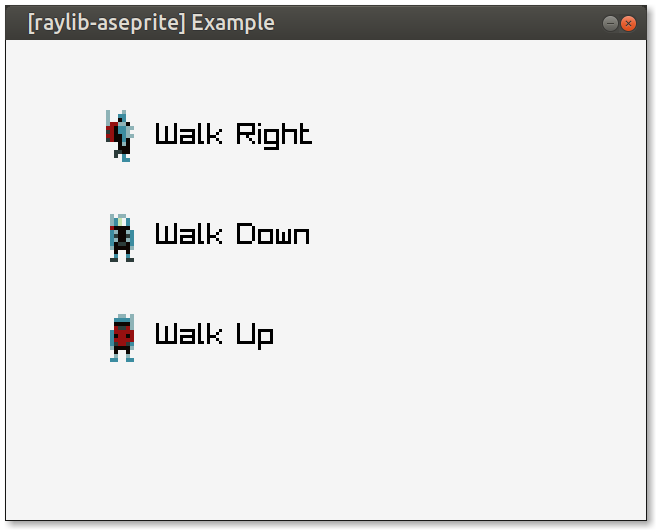
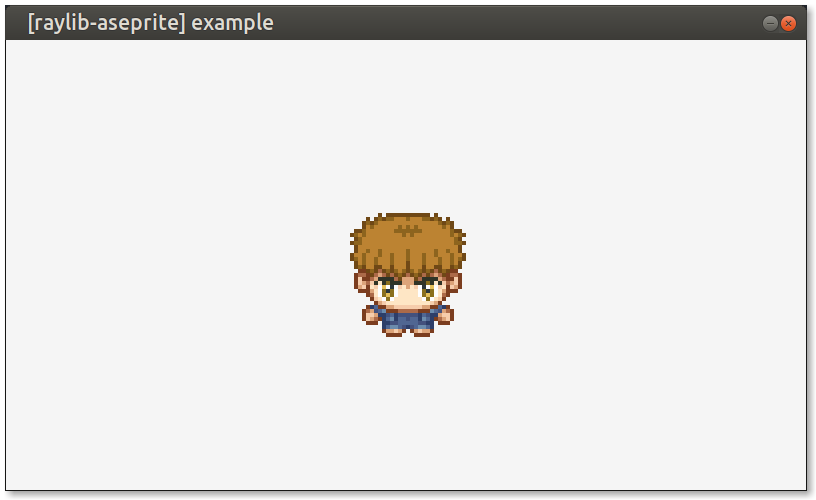
v1.0.0

Changed region(s): [[0.0, 0.0, 1.0, 0.99], [0.1524, 0.39, 0.5793, 0.69], [0.1524, 0.21, 0.4878, 0.3]]

diff --git a/include/raylib-aseprite.h b/include/raylib-aseprite.h
@@ -77,15 +77,15 @@ void TraceAseprite(Aseprite aseprite);                              // Display a
 Texture GetAsepriteTexture(Aseprite aseprite);                      // Retrieve the raylib texture associated with the aseprite
 int GetAsepriteWidth(Aseprite aseprite);                            // Get the width of the sprite
 int GetAsepriteHeight(Aseprite aseprite);                           // Get the height of the sprite
-int GetAspriteTagCount(Aseprite aseprite);                          // Get the total amount of available tags
+int GetAsepriteTagCount(Aseprite aseprite);                          // Get the total amount of available tags
 void DrawAseprite(Aseprite aseprite, int frame, int posX, int posY, Color tint);
 void DrawAsepriteV(Aseprite aseprite, int frame, Vector2 position, Color tint);
 void DrawAsepriteEx(Aseprite aseprite, int frame, Vector2 position, float rotation, float scale, Color tint);
 void DrawAsepritePro(Aseprite aseprite, int frame, Rectangle dest, Vector2 origin, float rotation, Color tint);
 
 // Aseprite Tag functions
-AsepriteTag LoadAsepriteTag(Aseprite aseprite, const char* name);   // Load a Aseprite tag animation sequence
-AsepriteTag LoadAsepriteTagFromIndex(Aseprite aseprite, int index);    // Load a Aseprite tag animation sequence from its index
+AsepriteTag LoadAsepriteTag(Aseprite aseprite, const char* name);   // Load an Aseprite tag animation sequence
+AsepriteTag LoadAsepriteTagFromIndex(Aseprite aseprite, int index); // Load an Aseprite tag animation sequence from its index
 bool IsAsepriteTagReady(AsepriteTag tag);                           // Check if the given Aseprite tag was loaded successfully
 void UpdateAsepriteTag(AsepriteTag* tag);                           // Update the tag animation frame
 AsepriteTag GenAsepriteTagDefault();                                // Generate an empty Tag with sane defaults
@@ -161,6 +161,9 @@ extern "C" {
 /**
  * Load an .aseprite file through its memory data.
  *
+ * @param fileData The loaded file data for the .aseprite file.
+ * @param size The size of file in bytes.
+ *
  * @see UnloadAseprite()
  * @see LoadAseprite()
  */
@@ -225,8 +228,12 @@ Aseprite LoadAsepriteFromMemory(unsigned char* fileData, unsigned int size) {
 /**
  * Load an .aseprite file.
  *
+ * @param fileName The path to the file to load.
+ *
+ * @return The loaded Aseprite object, or an empty one on failure.
+ *
  * @see UnloadAseprite()
- * @see LoadAsepriteFromMemory()
+ * @see IsAsepriteReady()
  */
 Aseprite LoadAseprite(const char* fileName) {
     unsigned int bytesRead;
@@ -243,12 +250,23 @@ Aseprite LoadAseprite(const char* fileName) {
     return ase;
 }
 
+/**
+ * Determine whether or not the given Aseprite object was loaded successfully.
+ *
+ * @param aseprite The loaded Aseprite object.
+ *
+ * @return True if the Aseprite was loaded successfully, false otherwise.
+ */
 bool IsAsepriteReady(Aseprite aseprite) {
     return aseprite.ase != 0;
 }
 
 /**
  * Get the loaded raylib texture for the Aseprite.
+ *
+ * @param aseprite The loaded Aseprite object to retrieve the texture for.
+ *
+ * @return The internal texture associated with the Aseprite, or an empty Texture on failure.
  */
 inline Texture GetAsepriteTexture(Aseprite aseprite) {
     if (aseprite.ase == 0) {
@@ -267,6 +285,10 @@ inline Texture GetAsepriteTexture(Aseprite aseprite) {
 
 /**
  * Get the width of the aseprite sprite.
+ *
+ * @param aseprite The loaded Aseprite object to retrieve the width for.
+ *
+ * @return The width of the sprite, or 0 on failure.
  */
 int GetAsepriteWidth(Aseprite aseprite) {
     if (aseprite.ase == 0) {
@@ -278,6 +300,10 @@ int GetAsepriteWidth(Aseprite aseprite) {
 
 /**
  * Get the height of the aseprite sprite.
+ *
+ * @param aseprite The loaded Aseprite object to retrieve the height for.
+ *
+ * @return The height of the sprite, or 0 on failure.
  */
 int GetAsepriteHeight(Aseprite aseprite) {
     if (aseprite.ase == 0) {
@@ -289,8 +315,12 @@ int GetAsepriteHeight(Aseprite aseprite) {
 
 /**
  * Get the amount of tags defined in the aseprite sprite.
+ *
+ * @param aseprite The loaded Aseprite object to retrieve the amount of tags for.
+ *
+ * @return The number of tags that are defined within the aseprite, or 0 on failure.
  */
-int GetAspriteTagCount(Aseprite aseprite) {
+int GetAsepriteTagCount(Aseprite aseprite) {
     if (aseprite.ase == 0) {
         TraceLog(LOG_WARNING, "ASEPRITE: Cannot get tag count non-existant aseprite");
         return 0;
@@ -299,7 +329,9 @@ int GetAspriteTagCount(Aseprite aseprite) {
 }
 
 /**
- * Unloads the given Aseprite.
+ * Unloads the given Aseprite. This will also unload the internal Texture.
+ *
+ * @param aseprite The loaded Aseprite object of which to unload.
  *
  * @see LoadAseprite()
  */
@@ -510,6 +542,14 @@ AsepriteTag GenAsepriteTagDefault() {
 
 /**
  * Load an Aseprite tag from the given index.
+ *
+ * @param aseprite The loaded Aseprite object from which to load the tag.
+ * @param index The tag index within the Aseprite object.
+ *
+ * @return The Aseprite tag information, or an empty tag on failure.
+ *
+ * @see LoadAsepriteTag()
+ * @see IsAsepriteTagReady()
  */
 AsepriteTag LoadAsepriteTagFromIndex(Aseprite aseprite, int index) {
     AsepriteTag tag = GenAsepriteTagDefault();
@@ -542,6 +582,14 @@ AsepriteTag LoadAsepriteTagFromIndex(Aseprite aseprite, int index) {
 
 /**
  * Load an Aseprite tag from the given name.
+ *
+ * @param aseprite The Aseprite object to load the tag from.
+ * @param name The name of the tag to be loaded.
+ *
+ * @return The loaded Aseprite tag, or an empty tag on failure.
+ *
+ * @see IsAsepriteTagReady()
+ * @see UpdateAsepriteTag()
  */
 AsepriteTag LoadAsepriteTag(Aseprite aseprite, const char* name) {
     AsepriteTag tag = GenAsepriteTagDefault();
@@ -564,6 +612,10 @@ AsepriteTag LoadAsepriteTag(Aseprite aseprite, const char* name) {
 
 /**
  * Determine whether or not the Aseprite tag was loaded successfully.
+ *
+ * @param tag The tag of which to check if it was loaded.
+ *
+ * @return True if the tag was loaded, false otherwise.
  */
 bool IsAsepriteTagReady(AsepriteTag tag) {
     return tag.tag != 0;

diff --git a/examples/raylib-aseprite-numbers.c b/examples/raylib-aseprite-numbers.c
@@ -1,6 +1,6 @@
 /*******************************************************************************************
 *
-*   [raylib-aseprite] example - Load a Aseprite file, and display the animated sprites.
+*   [raylib-aseprite] numbers - Load the numbers Aseprite file, and display the different animation directions.
 *
 *   This example has been created using raylib 3.5 (www.raylib.com)
 *   raylib is licensed under an unmodified zlib/libpng license (View raylib.h for details)
@@ -19,6 +19,7 @@
 int main() {
     // Initialization
     //--------------------------------------------------------------------------------------
+
     const int screenWidth = 800;
     const int screenHeight = 450;
     const int textTop = 140;
@@ -28,6 +29,7 @@ int main() {
     // Load the Aseprite file.
     Aseprite numbers = LoadAseprite("resources/numbers.aseprite");
 
+    // Load the tag animations from the numbers aseprite.
     AsepriteTag forwards = LoadAsepriteTag(numbers, "Forwards");
     AsepriteTag backwards = LoadAsepriteTag(numbers, "Backwards");
     AsepriteTag pingpong = LoadAsepriteTag(numbers, "Ping-Pong");
@@ -47,6 +49,7 @@ int main() {
 
         // Draw
         //----------------------------------------------------------------------------------
+
         BeginDrawing();
         {
             ClearBackground(RAYWHITE);

diff --git a/examples/raylib-aseprite-example.c b/examples/raylib-aseprite-example.c
@@ -1,6 +1,6 @@
 /*******************************************************************************************
 *
-*   [raylib-aseprite] example - Load a Aseprite file, and display the animated sprites.
+*   [raylib-aseprite] example - Load a Aseprite file, and display the animated sprite.
 *
 *   This example has been created using raylib 3.5 (www.raylib.com)
 *   raylib is licensed under an unmodified zlib/libpng license (View raylib.h for details)
@@ -46,8 +46,8 @@ int main() {
     // Start the player facing down.
     int direction = 2;
 
-    // Center the player on the screen, and scale them.
-    const float scale = 3;
+    // Center the scaled player on the screen.
+    const float scale = 4;
     Vector2 playerPosition = {
         GetScreenWidth() / 2 - GetAsepriteWidth(george) / 2 * scale,
         GetScreenHeight() / 2 - GetAsepriteHeight(george) / 2 * scale

diff --git a/test/raylib-aseprite-test.c b/test/raylib-aseprite-test.c
@@ -28,6 +28,15 @@ int main(int argc, char *argv[]) {
     // IsAsepriteReady()
     assert(IsAsepriteReady(aseprite));
 
+    // GetAsepriteWidth()
+    assert(GetAsepriteWidth(aseprite) > 5);
+
+    // GetAsepriteHeight()
+    assert(GetAsepriteHeight(aseprite) > 10);
+
+    // GetAsepriteTagCount()
+    assert(GetAsepriteTagCount(aseprite) > 2);
+
     // TraceAseprite()
     TraceAseprite(aseprite);
 
@@ -43,8 +52,8 @@ int main(int argc, char *argv[]) {
     // IsAsepriteTagReady()
     assert(IsAsepriteTagReady(tag));
 
-    // GetAspriteTagCount()
-    assert(GetAspriteTagCount(aseprite) > 2);
+    // GetAsepriteTagCount()
+    assert(GetAsepriteTagCount(aseprite) > 2);
 
     // LoadAsepriteTagFromIndex()
     {

diff --git a/README.md b/README.md
@@ -1,12 +1,22 @@
 # raylib-aseprite
 
-Load [Aseprite](https://aseprite.org) `.aseprite` files to use animated sprites in [raylib](https://raylib.com).
+Load [Aseprite](https://aseprite.org) `.aseprite` files for animated sprites in [raylib](https://raylib.com).
 
 ![examples/raylib-aseprite-example.png](examples/raylib-aseprite-example.png)
 
+## Features
+
+- Load [Aseprite](https://www.aseprite.org/) files directly for use in raylib
+- Draw individual frames
+- Load and draw [Aseprite tags](https://www.aseprite.org/docs/tags/) as sprite animations
+- Support for Forwards, Backwards, and Ping-Pong animations
+- Adjust tag animation speed by using `tag.speed`
+- Pause tag animations by using `tag.pause`
+- Toggle whether animations will continue when they finish with `tag.loop`
+
 ## Usage
 
-This is a header-only library. To use it, define `RAYLIB_ASEPRITE_IMPLEMENTATION` in one .c source file before including *raylib-aseprite.h*. You will also have to link the raylib dependency.
+This is a header-only library. To use it, define `RAYLIB_ASEPRITE_IMPLEMENTATION` in one .c source file before including [*raylib-aseprite.h*](include). You will also have to link the raylib dependency.
 
 ### Example
 
@@ -19,36 +29,39 @@ This is a header-only library. To use it, define `RAYLIB_ASEPRITE_IMPLEMENTATION
 int main() {
     InitWindow(640, 480, "Aseprite Example");
 
-    // Load the backpacker Aseprite file.
-    Aseprite backpacker = LoadAseprite("resources/backpacker.aseprite");
+    // Load the George Aseprite file.
+    Aseprite george = LoadAseprite("resources/george.aseprite");
 
     // Load the Walk Down tag.
-    AsepriteTag walkdown = LoadAsepriteTag(backpacker, "Walk Down");
+    AsepriteTag walkdown = LoadAsepriteTag(george, "Walk-Down");
     walkdown.speed = 2; // Double the animation speed.
 
     while(!WindowShouldClose()) {
-        // Update the animation frame for walk down.
+        // Update the animation frame.
         UpdateAsperiteTag(&walkdown);
 
         BeginDrawing();
-        ClearBackground(RAYWHITE);
+        {
+            ClearBackground(RAYWHITE);
 
-        // Draw the 0th frame from the backpacker sprite.
-        DrawAseprite(backpacker, 0, 100, 100, WHITE);
+            // Draw the 0th frame from the George sprite.
+            DrawAseprite(george, 0, 100, 100, WHITE);
 
-        // Draw the Walk Down animation.
-        DrawAsepriteTag(walkdown, 200, 100, WHITE);
-
+            // Draw the Walk Down animation.
+            DrawAsepriteTag(walkdown, 200, 100, WHITE);
+        }
         EndDrawing();
     }
 
-    // Clean up the backpacker aseprite.
-    UnloadAseprite(backpacker);
+    // Clean up the George aseprite.
+    UnloadAseprite(george);
 
     CloseWindow();
     return 0;
 }
 ```
+
+See the [examples](examples directory) for more demonstrations of how to use *raylib-aseprite*.
 
 ### API
 
@@ -62,15 +75,15 @@ void TraceAseprite(Aseprite aseprite);                              // Display a
 Texture GetAsepriteTexture(Aseprite aseprite);                      // Retrieve the raylib texture associated with the aseprite
 int GetAsepriteWidth(Aseprite aseprite);                            // Get the width of the sprite
 int GetAsepriteHeight(Aseprite aseprite);                           // Get the height of the sprite
-int GetAspriteTagCount(Aseprite aseprite);                          // Get the total amount of available tags
+int GetAsepriteTagCount(Aseprite aseprite);                          // Get the total amount of available tags
 void DrawAseprite(Aseprite aseprite, int frame, int posX, int posY, Color tint);
 void DrawAsepriteV(Aseprite aseprite, int frame, Vector2 position, Color tint);
 void DrawAsepriteEx(Aseprite aseprite, int frame, Vector2 position, float rotation, float scale, Color tint);
 void DrawAsepritePro(Aseprite aseprite, int frame, Rectangle dest, Vector2 origin, float rotation, Color tint);
 
 // Aseprite Tag functions
-AsepriteTag LoadAsepriteTag(Aseprite aseprite, const char* name);   // Load a Aseprite tag animation sequence
-AsepriteTag LoadAsepriteTagFromIndex(Aseprite aseprite, int index);    // Load a Aseprite tag animation sequence from its index
+AsepriteTag LoadAsepriteTag(Aseprite aseprite, const char* name);   // Load an Aseprite tag animation sequence
+AsepriteTag LoadAsepriteTagFromIndex(Aseprite aseprite, int index); // Load an Aseprite tag animation sequence from its index
 bool IsAsepriteTagReady(AsepriteTag tag);                           // Check if the given Aseprite tag was loaded successfully
 void UpdateAsepriteTag(AsepriteTag* tag);                           // Update the tag animation frame
 AsepriteTag GenAsepriteTagDefault();                                // Generate an empty Tag with sane defaults
@@ -98,4 +111,4 @@ This uses [cute_asesprite.h](https://github.com/RandyGaul/cute_headers/blob/mast
 
 ## License
 
-raylib-aseprite is licensed under an unmodified zlib/libpng license, which is an OSI-certified, BSD-like license that allows static linking with closed source software. Check [LICENSE](LICENSE) for further details.
+*raylib-aseprite* is licensed under an unmodified zlib/libpng license, which is an OSI-certified, BSD-like license that allows static linking with closed source software. Check [LICENSE](LICENSE) for further details.
